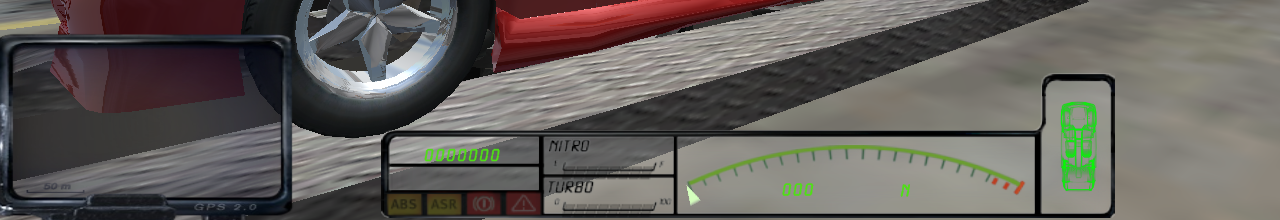
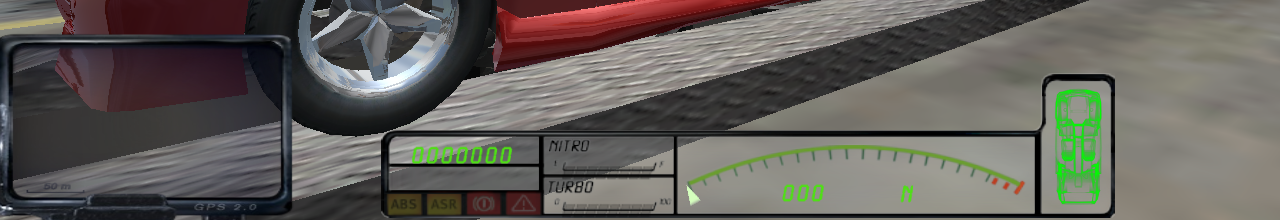
Increase stock HUD sizing further

diff --git a/src/render/bgfx_osd.cpp b/src/render/bgfx_osd.cpp
@@ -542,9 +542,9 @@ void LibBgfxBackend::draw_vehicle_hud(const VehicleHudState& hud) {
       {}, {},
       {true, cars_resource(0x58), {.222f, .887f, 0}, {}, 0xff4fe015, "%03.0f"},
       {true, cars_resource(0x58), {.407f, .889f, 0}, {}, 0xff4fe015, "N123456R"},
-      {true, cars_resource(0x58), {-.337f, .791f, 0}, {}, 0xff4fe015, "%07.0f"},
+      {true, cars_resource(0x58), {-.357f, .782f, 0}, {}, 0xff4fe015, "%07.0f"},
       {true, cars_resource(0x63), {-.227f, .925f, 0}},
-      {true, cars_resource(0x57), {.655f, .667f, 0}},
+      {true, cars_resource(0x57), {.646f, .631f, 0}},
       {true, cars_resource(0x5c), {-.126f, .843f, 0}, {}, 0xff000000},
       {true, cars_resource(0x5c), {-.126f, .948f, 0}, {}, 0xff000000},
   }};
@@ -598,7 +598,7 @@ void LibBgfxBackend::draw_vehicle_hud(const VehicleHudState& hud) {
       const size_t start = size_t(glyph) * 4;
       if ((start + 4) * 3 > mesh->positions.size()) continue;
       const float *p = mesh->positions.data() + start * 3;
-      const float sy = (damage ? (override.defined ? .00014f : .00028f) : .00032f) * stock_scale;
+      const float sy = (damage ? (override.defined ? .00014f : .00036f) : .00032f) * stock_scale;
       const float x = override.defined && damage && item.position[0] < 0.f
           ? -item.position[0] : item.position[0];
       uint32_t color = item.color;
@@ -632,7 +632,7 @@ void LibBgfxBackend::draw_vehicle_hud(const VehicleHudState& hud) {
         x *= .42f;
         y *= -.82f;
       }
-      const float sy = .00018f * (override.defined ? 1.f : stock_scale);
+      const float sy = .00024f * (override.defined ? 1.f : stock_scale);
       const float sx = sy * pixel_aspect;
       for (const unsigned char ch : std::string(buffer)) {
         const size_t start = size_t(ch) * 4;
